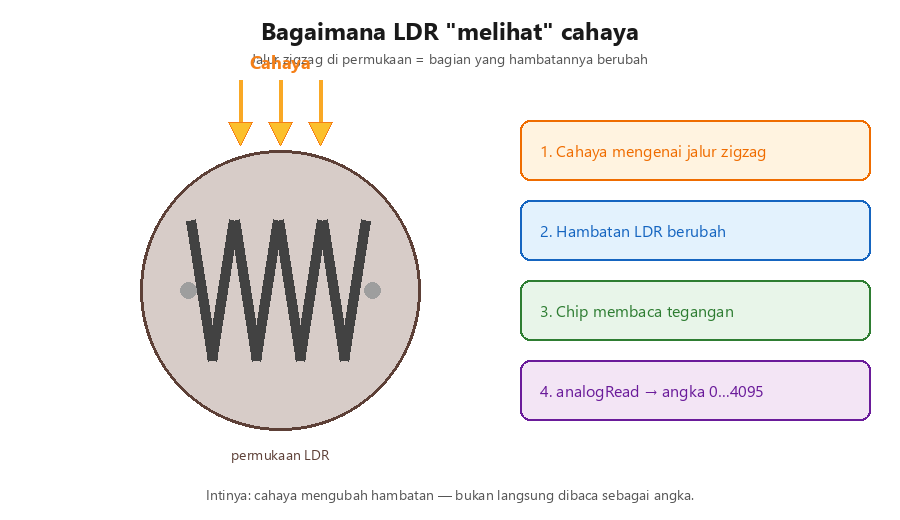
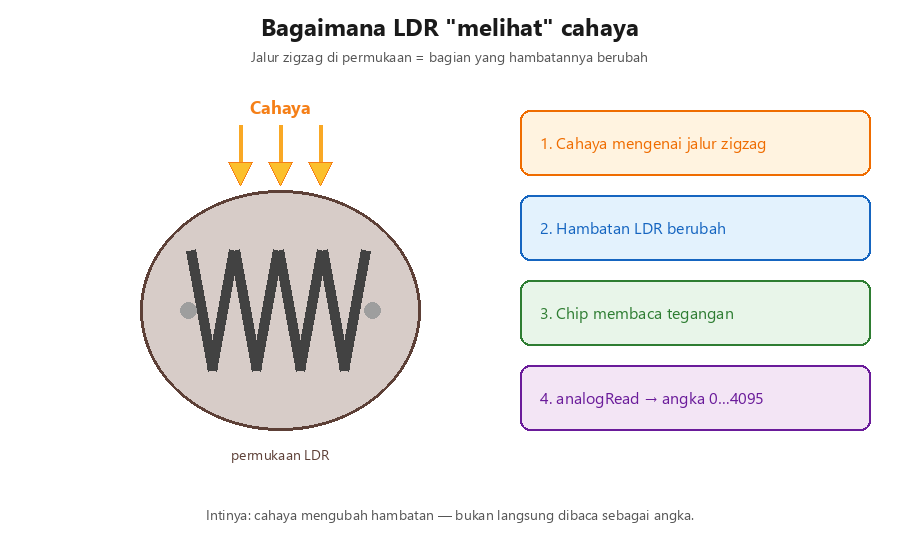
fix(fsiot): #92 rapikan diagram prinsip LDR (tanpa overlap teks)
Spacing label Cahaya vs subtitle zigzag diperbaiki agar mudah dibaca awam.

diff --git a/database/seeders/Article92Seeder.php b/database/seeders/Article92Seeder.php
@@ -230,7 +230,7 @@ HTML;
     {
         return <<<'HTML'
 <figure style="margin:1.5rem 0;max-width:100%;background:#F5F5F0;border:2.5px solid #1a1a1a;border-radius:8px;padding:0.75rem">
-  <img src="/images/fsiot/fs22-ldr-principle.png" width="900" height="520" alt="Prinsip LDR — cahaya mengubah hambatan di jalur zigzag" loading="eager" style="display:block;width:100%;max-width:720px;height:auto;margin:0 auto;border:2.5px solid #1a1a1a;border-radius:8px;background:#fff;padding:0.5rem">
+  <img src="/images/fsiot/fs22-ldr-principle.png" width="900" height="540" alt="Prinsip LDR — cahaya mengubah hambatan di jalur zigzag" loading="eager" style="display:block;width:100%;max-width:720px;height:auto;margin:0 auto;border:2.5px solid #1a1a1a;border-radius:8px;background:#fff;padding:0.5rem">
   <figcaption style="font-size:0.85rem;margin-top:0.5rem;color:#1a1a1a;">
     <strong>Intinya:</strong> LDR mengubah hambatan saat cahaya berubah — chip tidak “melihat” hambatan langsung, melainkan tegangan dari pembagi.
     <br>Sumber gambar: diagram konsep buatan Koding Indonesia (FS-22), terinspirasi bentuk permukaan photoresistor.
@@ -243,7 +243,7 @@ HTML;
     {
         return <<<'HTML'
 <figure style="margin:1.5rem 0;max-width:100%;background:#F5F5F0;border:2.5px solid #1a1a1a;border-radius:8px;padding:0.75rem">
-  <img src="/images/fsiot/fs22-ldr-principle.png" width="900" height="520" alt="LDR principle — light changes resistance on the zigzag track" loading="eager" style="display:block;width:100%;max-width:720px;height:auto;margin:0 auto;border:2.5px solid #1a1a1a;border-radius:8px;background:#fff;padding:0.5rem">
+  <img src="/images/fsiot/fs22-ldr-principle.png" width="900" height="540" alt="LDR principle — light changes resistance on the zigzag track" loading="eager" style="display:block;width:100%;max-width:720px;height:auto;margin:0 auto;border:2.5px solid #1a1a1a;border-radius:8px;background:#fff;padding:0.5rem">
   <figcaption style="font-size:0.85rem;margin-top:0.5rem;color:#1a1a1a;">
     <strong>In short:</strong> an LDR changes resistance with light — the chip does not “see” resistance directly; it reads voltage from the divider.
     <br>Image source: concept diagram by Koding Indonesia (FS-22), inspired by a photoresistor surface shape.
